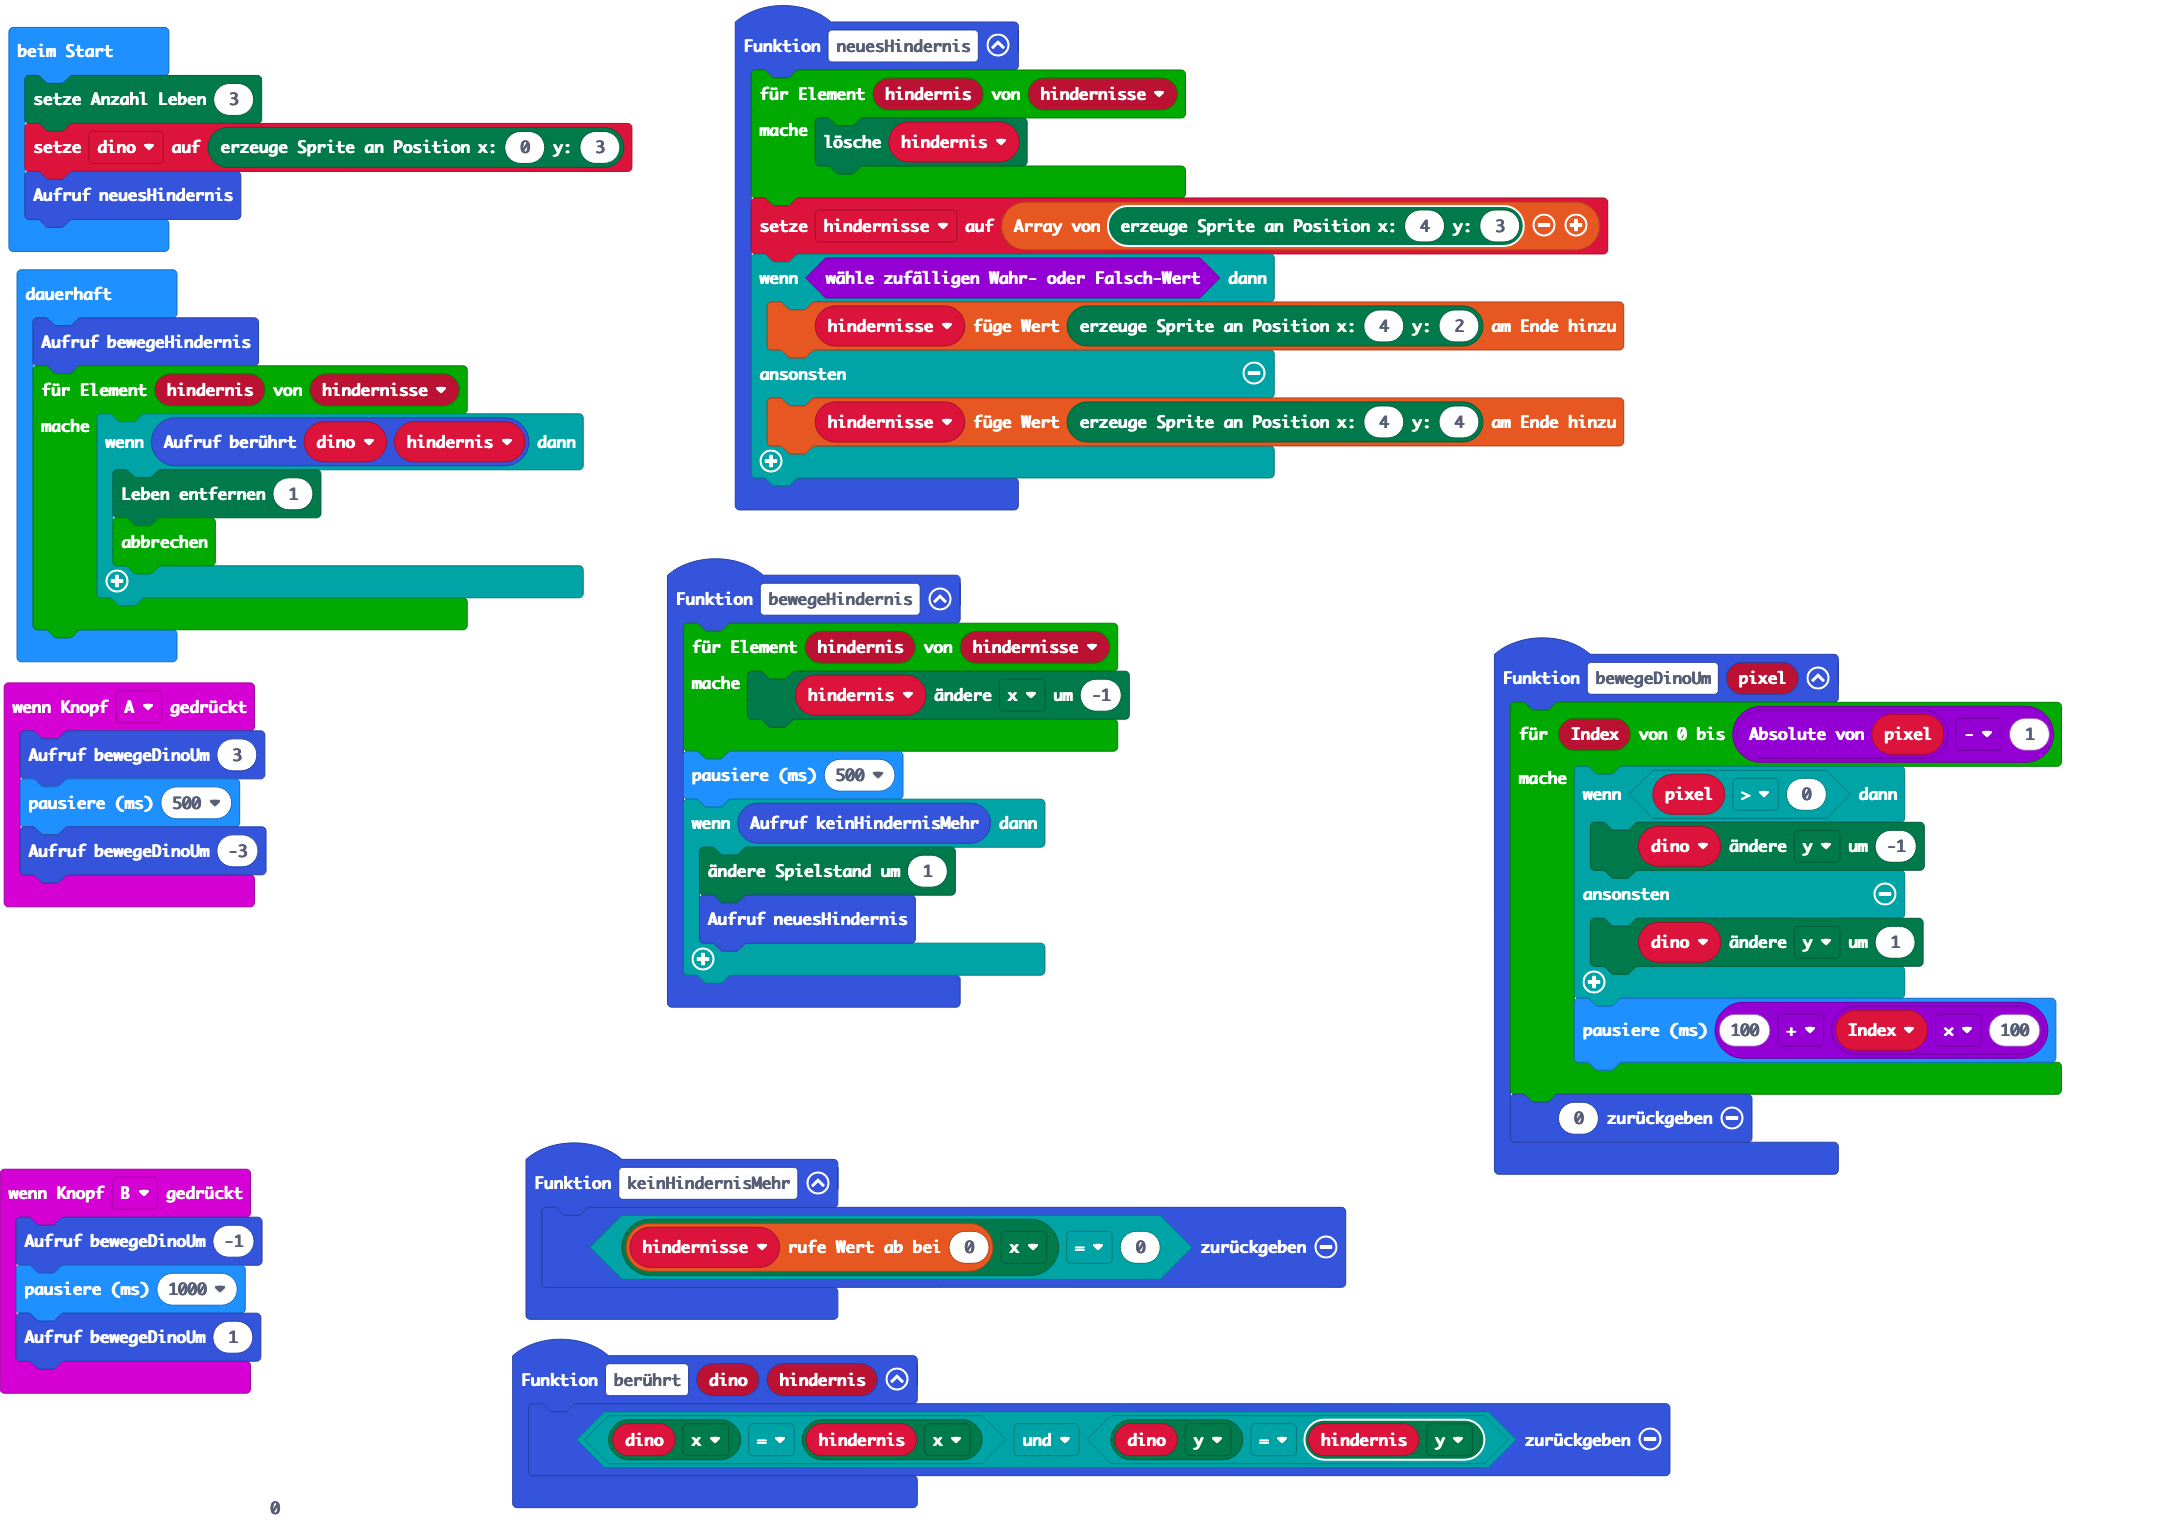
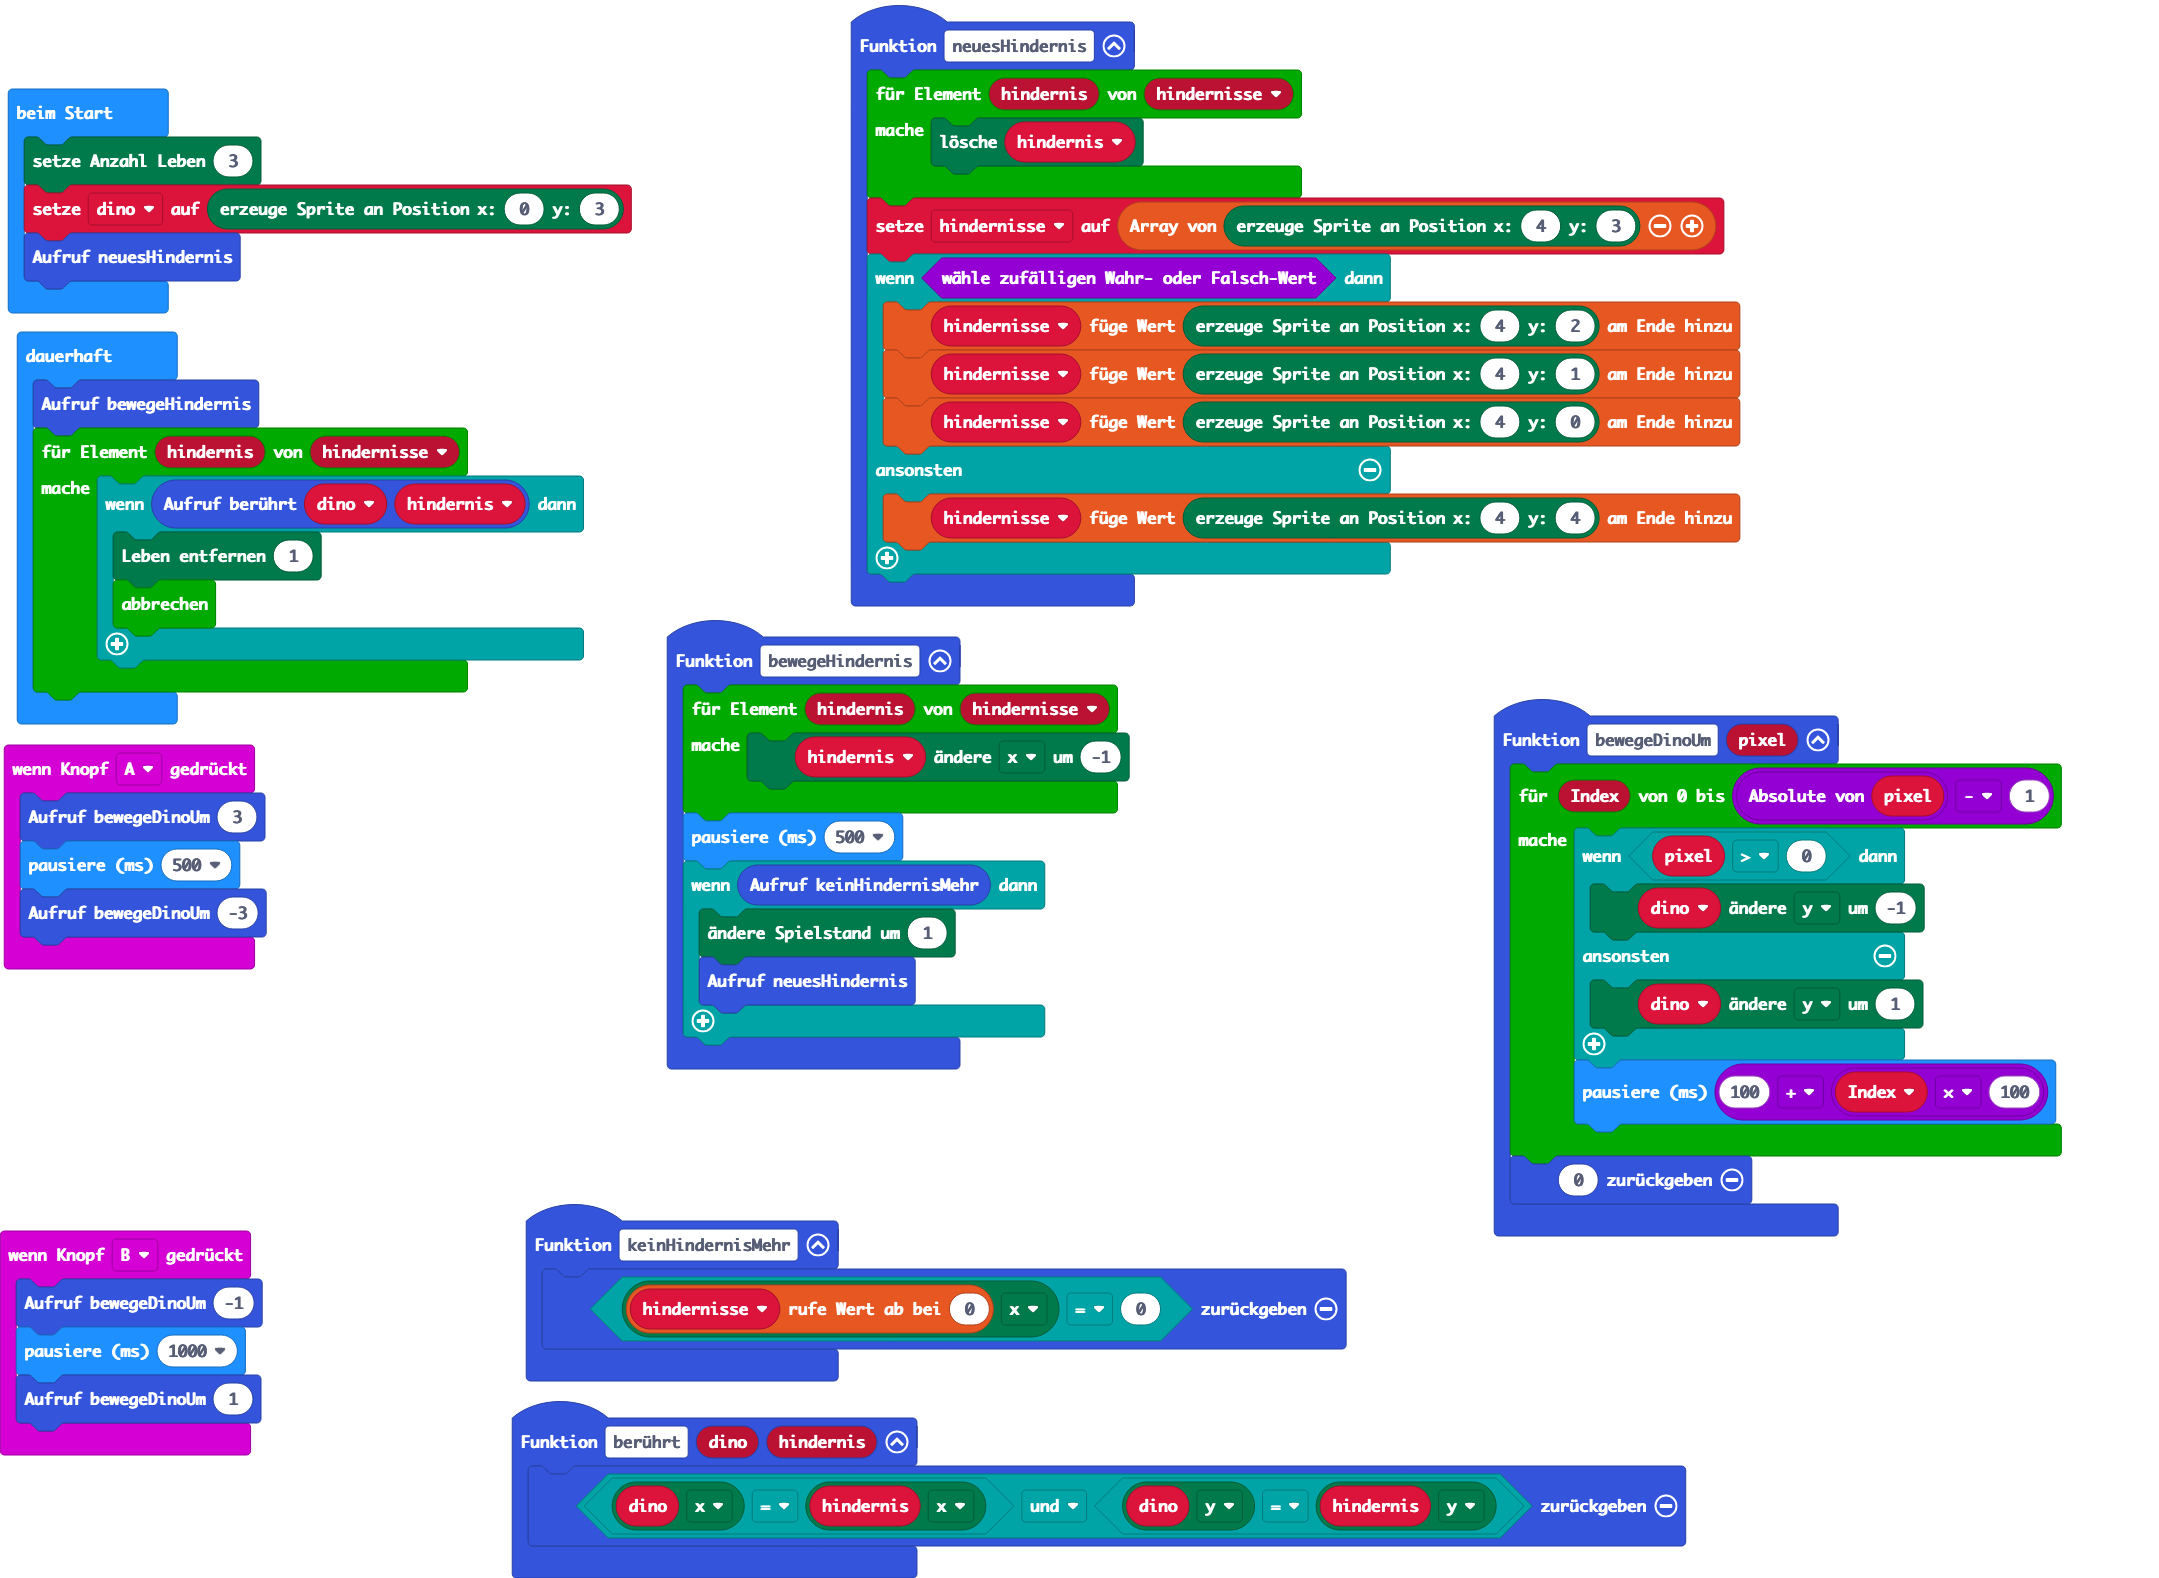
extend ducking obstable

diff --git a/main.ts b/main.ts
@@ -24,6 +24,8 @@ function neuesHindernis () {
     hindernisse = [game.createSprite(4, 3)]
     if (Math.randomBoolean()) {
         hindernisse.push(game.createSprite(4, 2))
+        hindernisse.push(game.createSprite(4, 1))
+        hindernisse.push(game.createSprite(4, 0))
     } else {
         hindernisse.push(game.createSprite(4, 4))
     }
